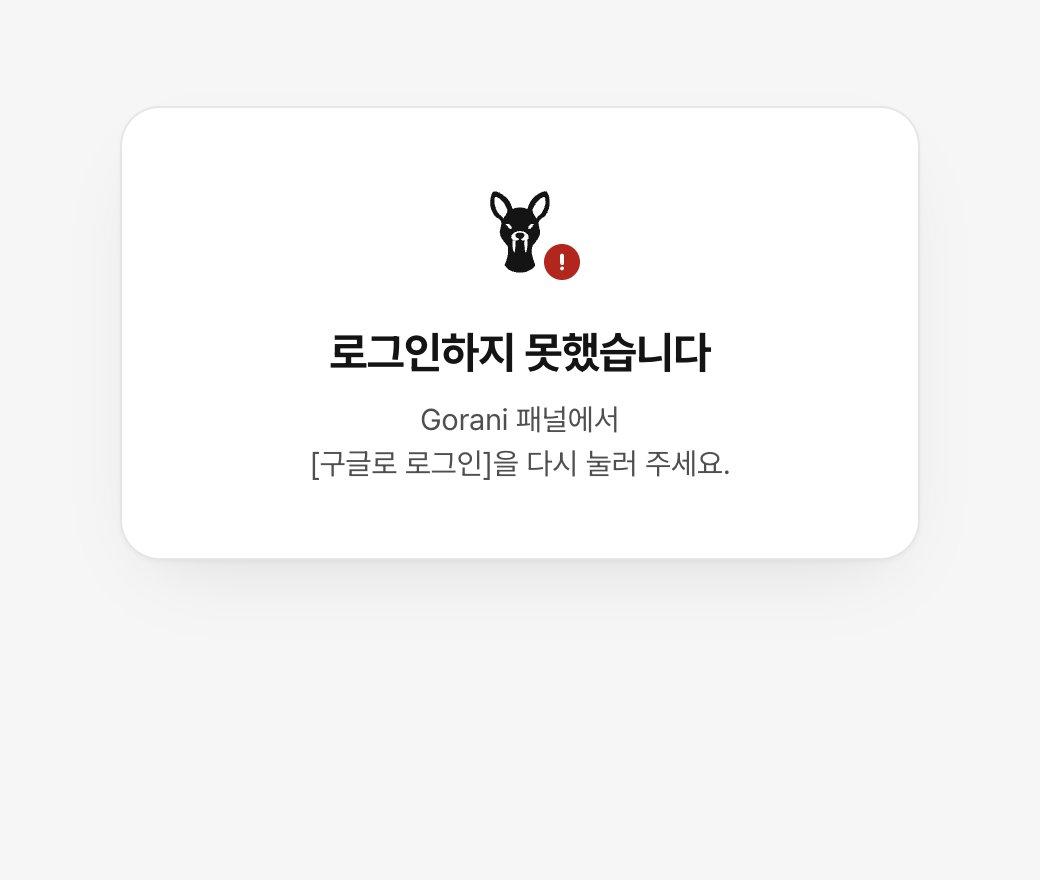
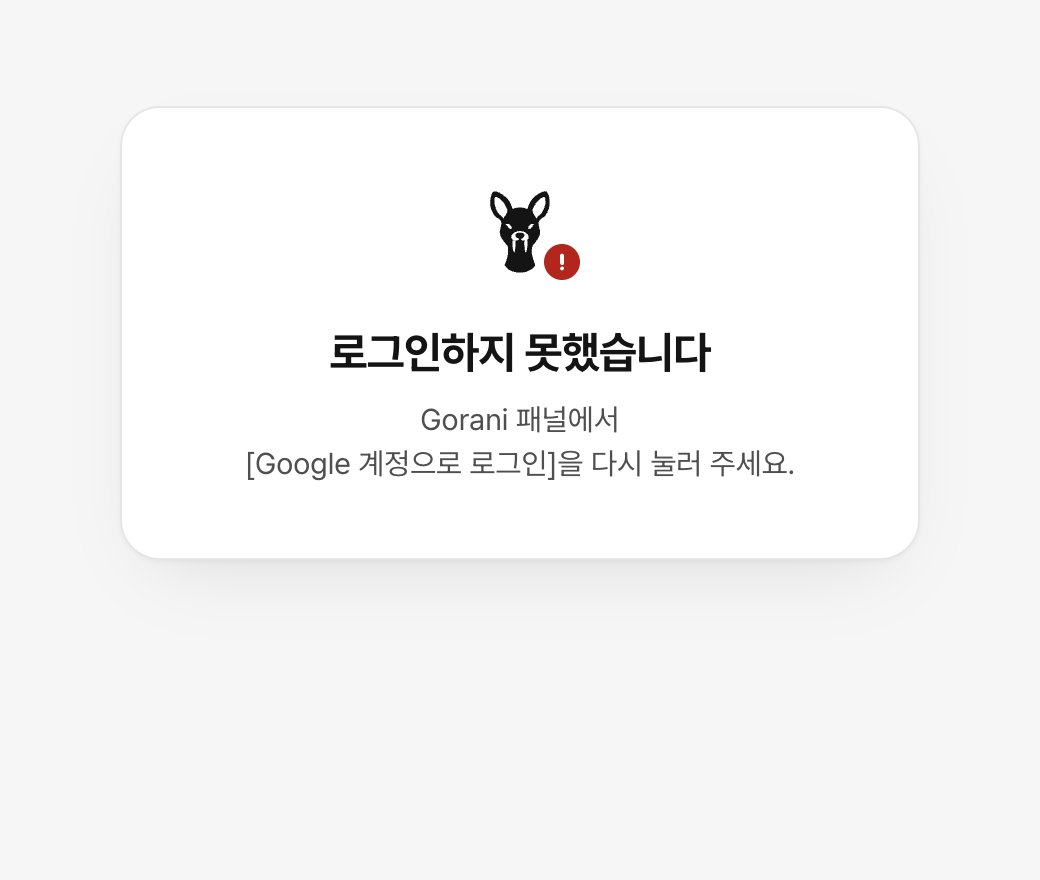
로그인 안내 문구의 단추 이름을 패널 단추와 같게: [구글로 로그인] → [Google 계정으로 로그인]

Changed region(s): [[0.2462, 0.4909, 0.7692, 0.5523]]

diff --git a/login/done/index.html b/login/done/index.html
@@ -40,7 +40,7 @@
   var q = new URLSearchParams(location.search), ok = q.get("ok") === "1", fallback = q.get("fallback") === "1", lang = q.get("lang") === "ko" ? "ko" : "en";
   var T = {   // fallback — 로그인 쪽 고장이라 플러그인이 이번 고급을 열었다(계획 문서 '로그인에 기대지 않기', 문구는 패널 토스트와 같다)
     ko: fallback ? ["로그인 서버가 풀 뜯으러 갔습니다", "이번 고급은 그냥 열어 둡니다.\n이 탭을 닫고 Gorani로 돌아가세요."]
-      : ok ? ["로그인했습니다", "이 탭을 닫고 Gorani로 돌아가세요."] : ["로그인하지 못했습니다", "Gorani 패널에서\n[구글로 로그인]을 다시 눌러 주세요."],
+      : ok ? ["로그인했습니다", "이 탭을 닫고 Gorani로 돌아가세요."] : ["로그인하지 못했습니다", "Gorani 패널에서\n[Google 계정으로 로그인]을 다시 눌러 주세요."],
     en: fallback ? ["The sign-in server wandered off to graze", "Advanced is open this time.\nClose this tab and return to Gorani."]
       : ok ? ["You’re signed in", "Close this tab and return to Gorani."] : ["Could not sign in", "Press [Sign in with Google]\nin the Gorani panel again."]
   }[lang];

diff --git a/login/index.html b/login/index.html
@@ -76,7 +76,7 @@
   var T = {
     ko: { title: "Gorani 로그인", sub: "구글 계정으로 로그인하면\nGorani 플러그인으로 돌아갑니다.", cont: "이 계정으로 계속", or: "또는",
       fine: '계속하면 <a href="../terms/">이용약관</a>과 <a href="../privacy/">개인정보 처리방침</a>에 동의합니다.<br>가입해도 결제는 없습니다.',
-      bad: "Gorani 패널의 [구글로 로그인]에서 열어 주세요.", home: "Gorani 홈으로", homeUrl: "../",
+      bad: "Gorani 패널의 [Google 계정으로 로그인]에서 열어 주세요.", home: "Gorani 홈으로", homeUrl: "../",
       working: "로그인하는 중…", back: "Gorani로 돌아가는 중… 이 탭은 닫아도 됩니다.", fail: "로그인하지 못했습니다. 다시 시도해 주세요." },
     en: { title: "Sign in to Gorani", sub: "Sign in with your Google account\nand return to the Gorani plugin.", cont: "Continue with this account", or: "or",
       fine: 'By continuing you agree to the <a href="../en/terms/">Terms</a> and <a href="../en/privacy/">Privacy Policy</a>.<br>Membership is free.',
